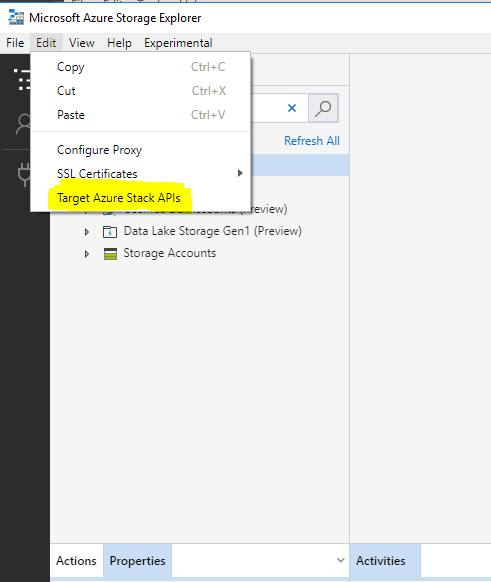
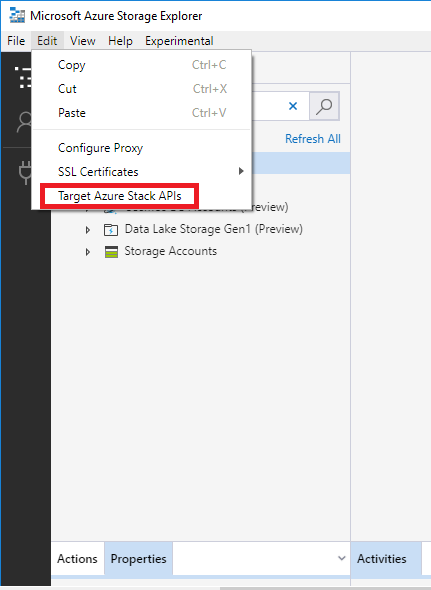
fix image highlight, fix order of things and factual errors

Changed region(s): [[0.0, 0.0, 1.0, 1.0]]

diff --git a/articles/azure/azs-how-link-storage-explorer.md b/articles/azure/azs-how-link-storage-explorer.md
@@ -23,39 +23,39 @@ If you need to install the Storage Explorer, please find the link [here](https:/
 
 ## Installation and setup
 
-1. Download and install storage explorer.
+1.  Download and install storage explorer.
 
     ![Storage tool installation guide 1](images/azs-browser-storage-tool-download.png)
 
-2. Once launched navigate to accounts.
-
-     ![Storage tool installation guide 2](images/azs-installation-storage-tool-1.png)
-
-3. Select **Add an account...**
-
-    ![Storage tool installation guide 3](images/azs-installation-storage-tool-2.png)
-
-4. Select **Add an Azure Account** > **Use Custom Environment**.
-
-    ![Storage tool installation guide 4](images/azs-installation-storage-tool-3.png)
-
-5. Name the environment **Azure Stack** and for the ARM endpoint use **`https://management.frn00006.azure.ukcloud.com`**.
-
-    ![Storage tool installation guide 5](images/azs-installation-storage-tool-4.png)
-
-6. Sign in with your Azure Stack credentials when prompted.
-
-    ![Storage tool installation guide 6](images/azs-installation-storage-tool-5.png)
-
-7. Click **Apply**.
-
-    ![Storage tool installation guide 7](images/azs-installation-storage-tool-6.png)
-
-8. From the **Edit** menu, select **Target Azure Stack APIs** then restart Storage Explorer.
+2.  From the **Edit** menu, select **Target Azure Stack APIs** then restart Storage Explorer.
 
     ![Storage tool installation guide 8](images/azs-installation-storage-tool-7.png)
 
-Now that you've linked Storage Explorer to Azure Stack, you can access all of your VMs storage accounts.
+3.  Once re-launched navigate to accounts.
+
+    ![Storage tool installation guide 2](images/azs-installation-storage-tool-1.png)
+
+4.  Select **Add an account...**
+
+    ![Storage tool installation guide 3](images/azs-installation-storage-tool-2.png)
+
+5.  Select **Add an Azure Account** \> **Use Custom Environment**.
+
+    ![Storage tool installation guide 4](images/azs-installation-storage-tool-3.png)
+
+6.  Name the environment **Azure Stack** and for the ARM endpoint use **`https://management.frn00006.azure.ukcloud.com`**.
+
+    ![Storage tool installation guide 5](images/azs-installation-storage-tool-4.png)
+
+7.  Sign in with your Azure Stack credentials when prompted.
+
+    ![Storage tool installation guide 6](images/azs-installation-storage-tool-5.png)
+
+8.  Click **Apply**.
+
+    ![Storage tool installation guide 7](images/azs-installation-storage-tool-6.png)
+
+Now that you've linked Storage Explorer to Azure Stack, you can access all of your storage accounts.
 
 ## Feedback
 
